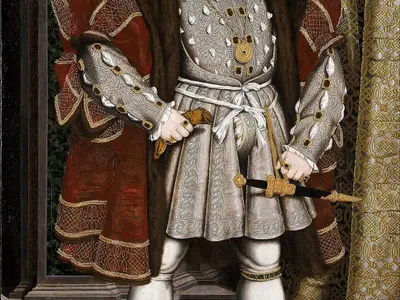
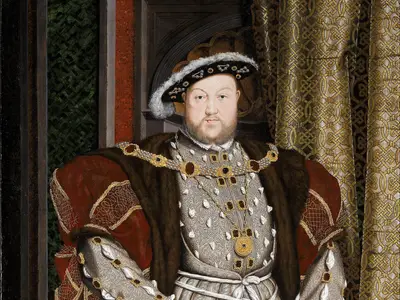
re-crop Henry VIII to show face and shoulders

diff --git a/england.html b/england.html
@@ -561,7 +561,7 @@ img{max-width:100%;display:block}
 
       <a href="/england/henry-viii-wives" class="history-card reveal" style="transition-delay:.15s">
         <div class="hc-image">
-          <img src="/img/en/henry-viii-wives.webp?v=9" alt="The Six Wives of Henry VIII" loading="lazy" width="800" height="600" style="object-position:center 0%" onerror="this.parentElement.style.background='linear-gradient(135deg,#1d2a47,#2d1f1f)'">
+          <img src="/img/en/henry-viii-wives.webp?v=10" alt="The Six Wives of Henry VIII" loading="lazy" width="800" height="600" onerror="this.parentElement.style.background='linear-gradient(135deg,#1d2a47,#2d1f1f)'">
           <span class="hc-date">1509-1547</span>
         </div>
         <div class="hc-body">
